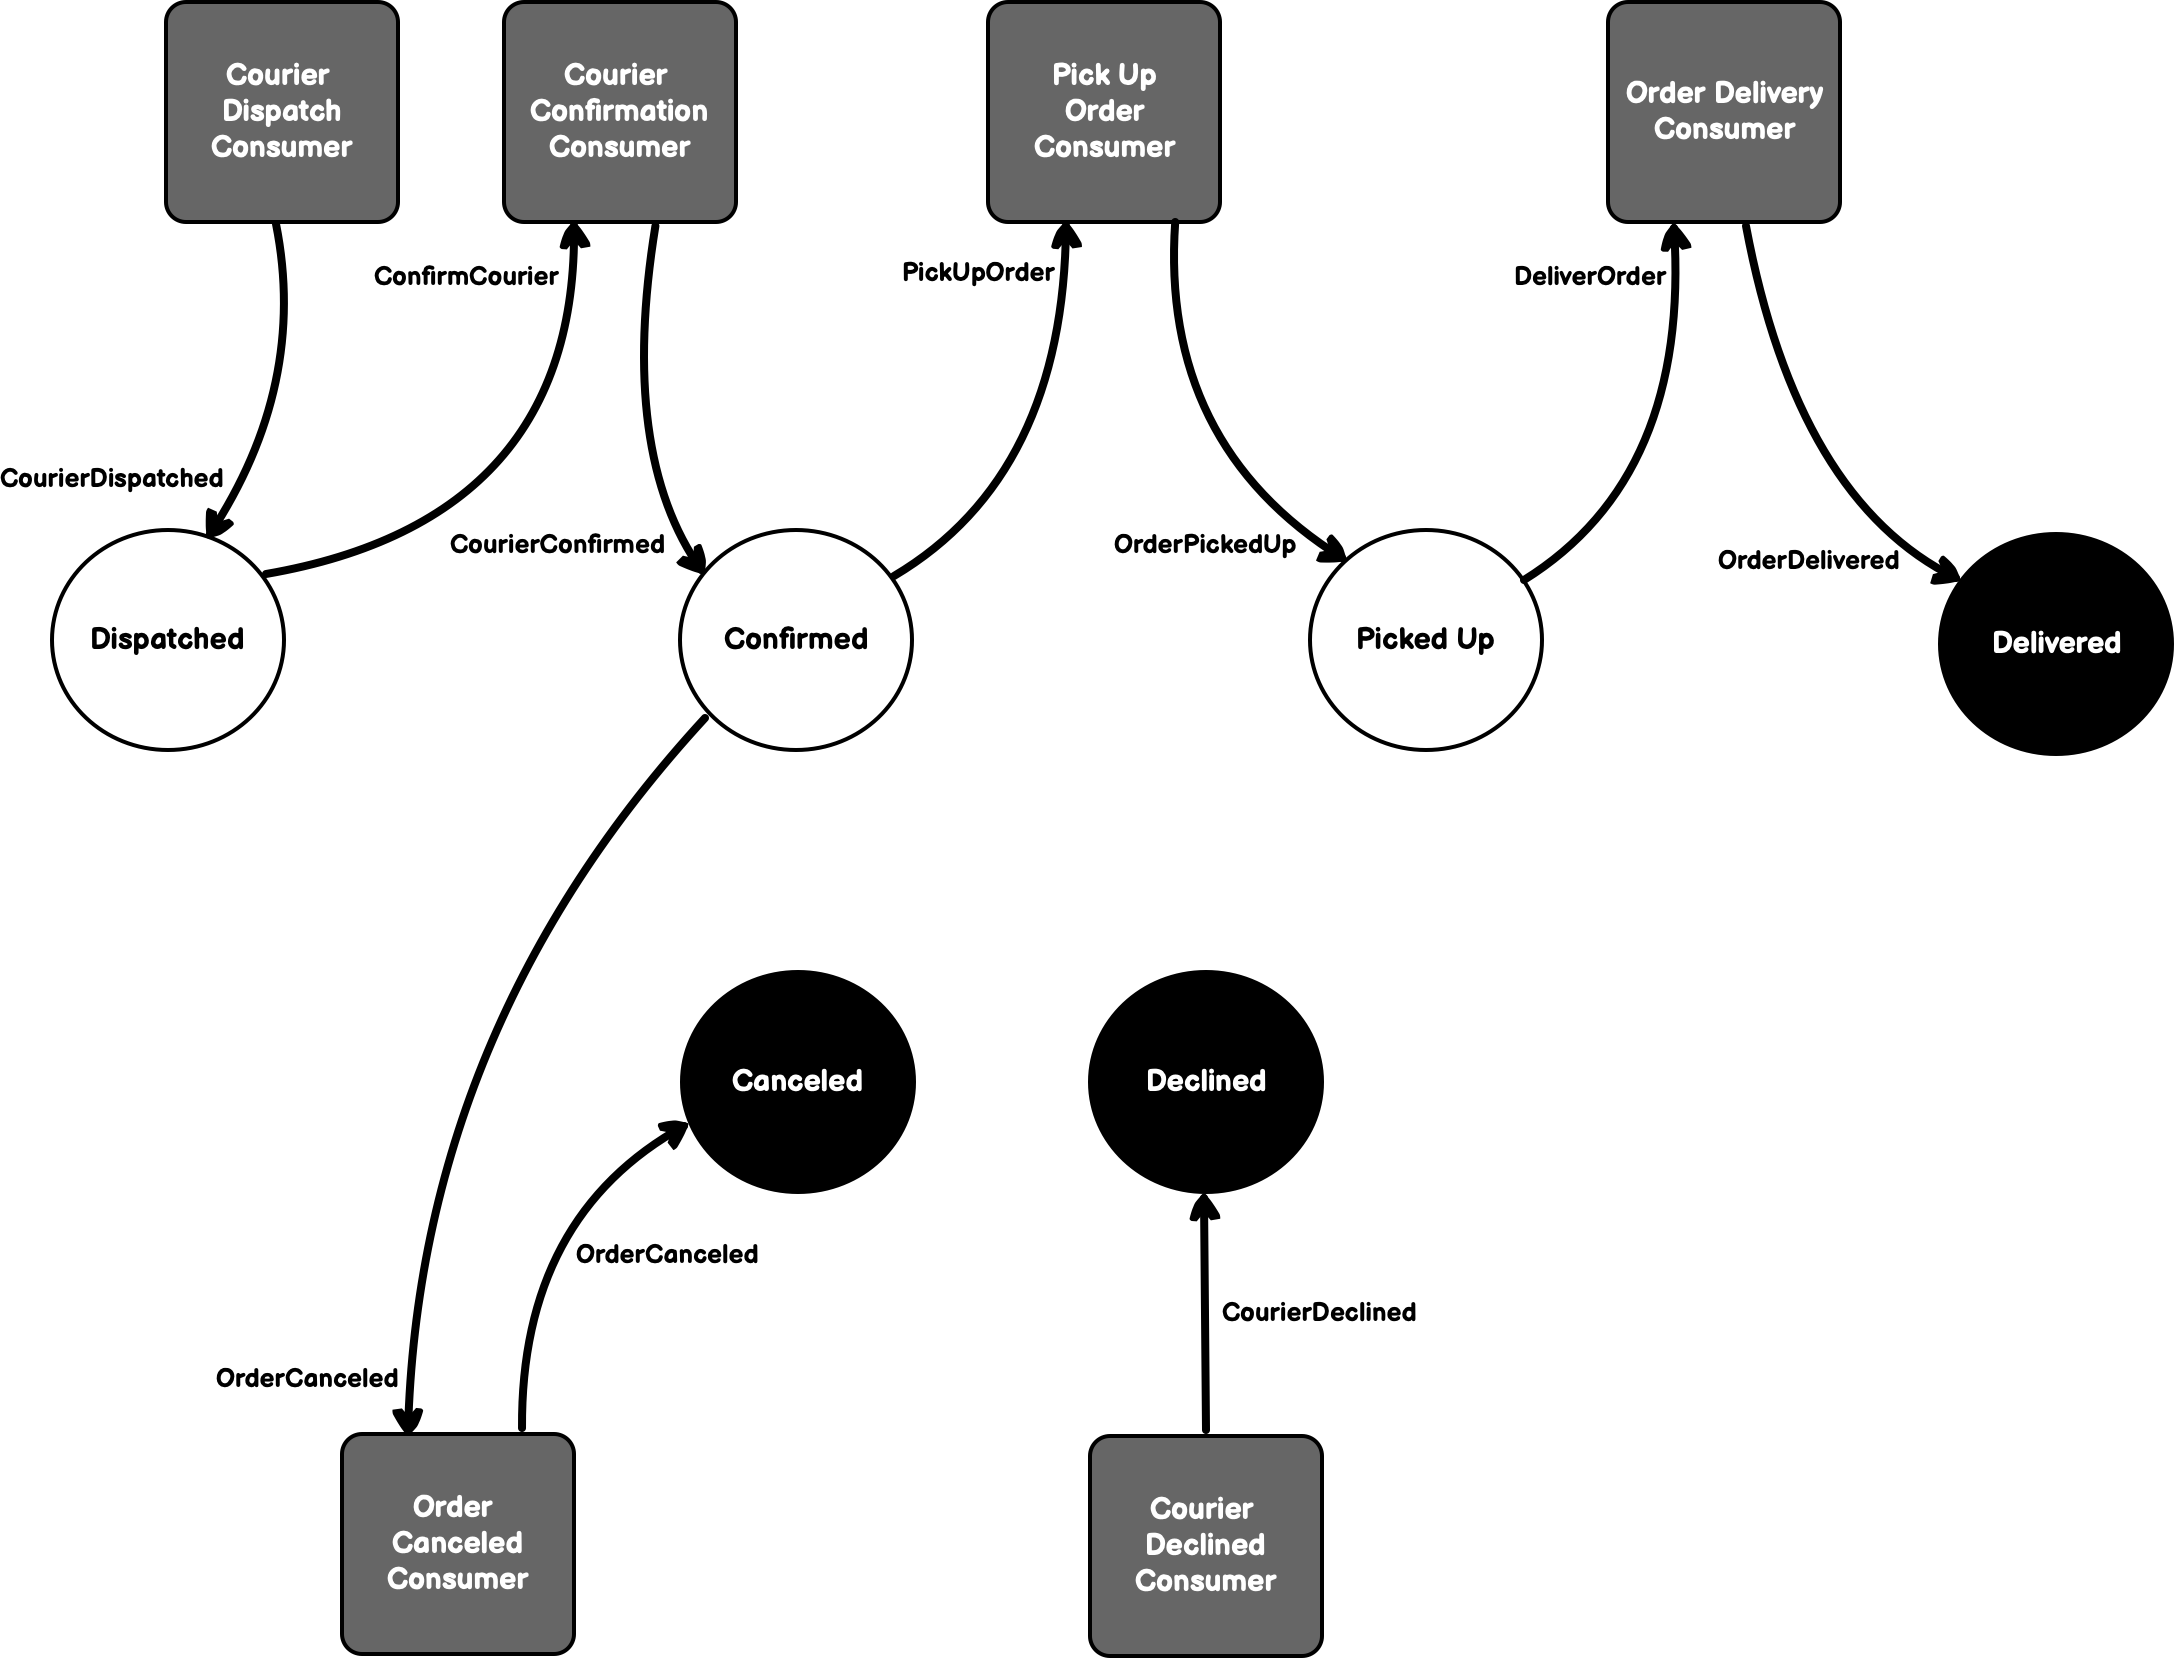
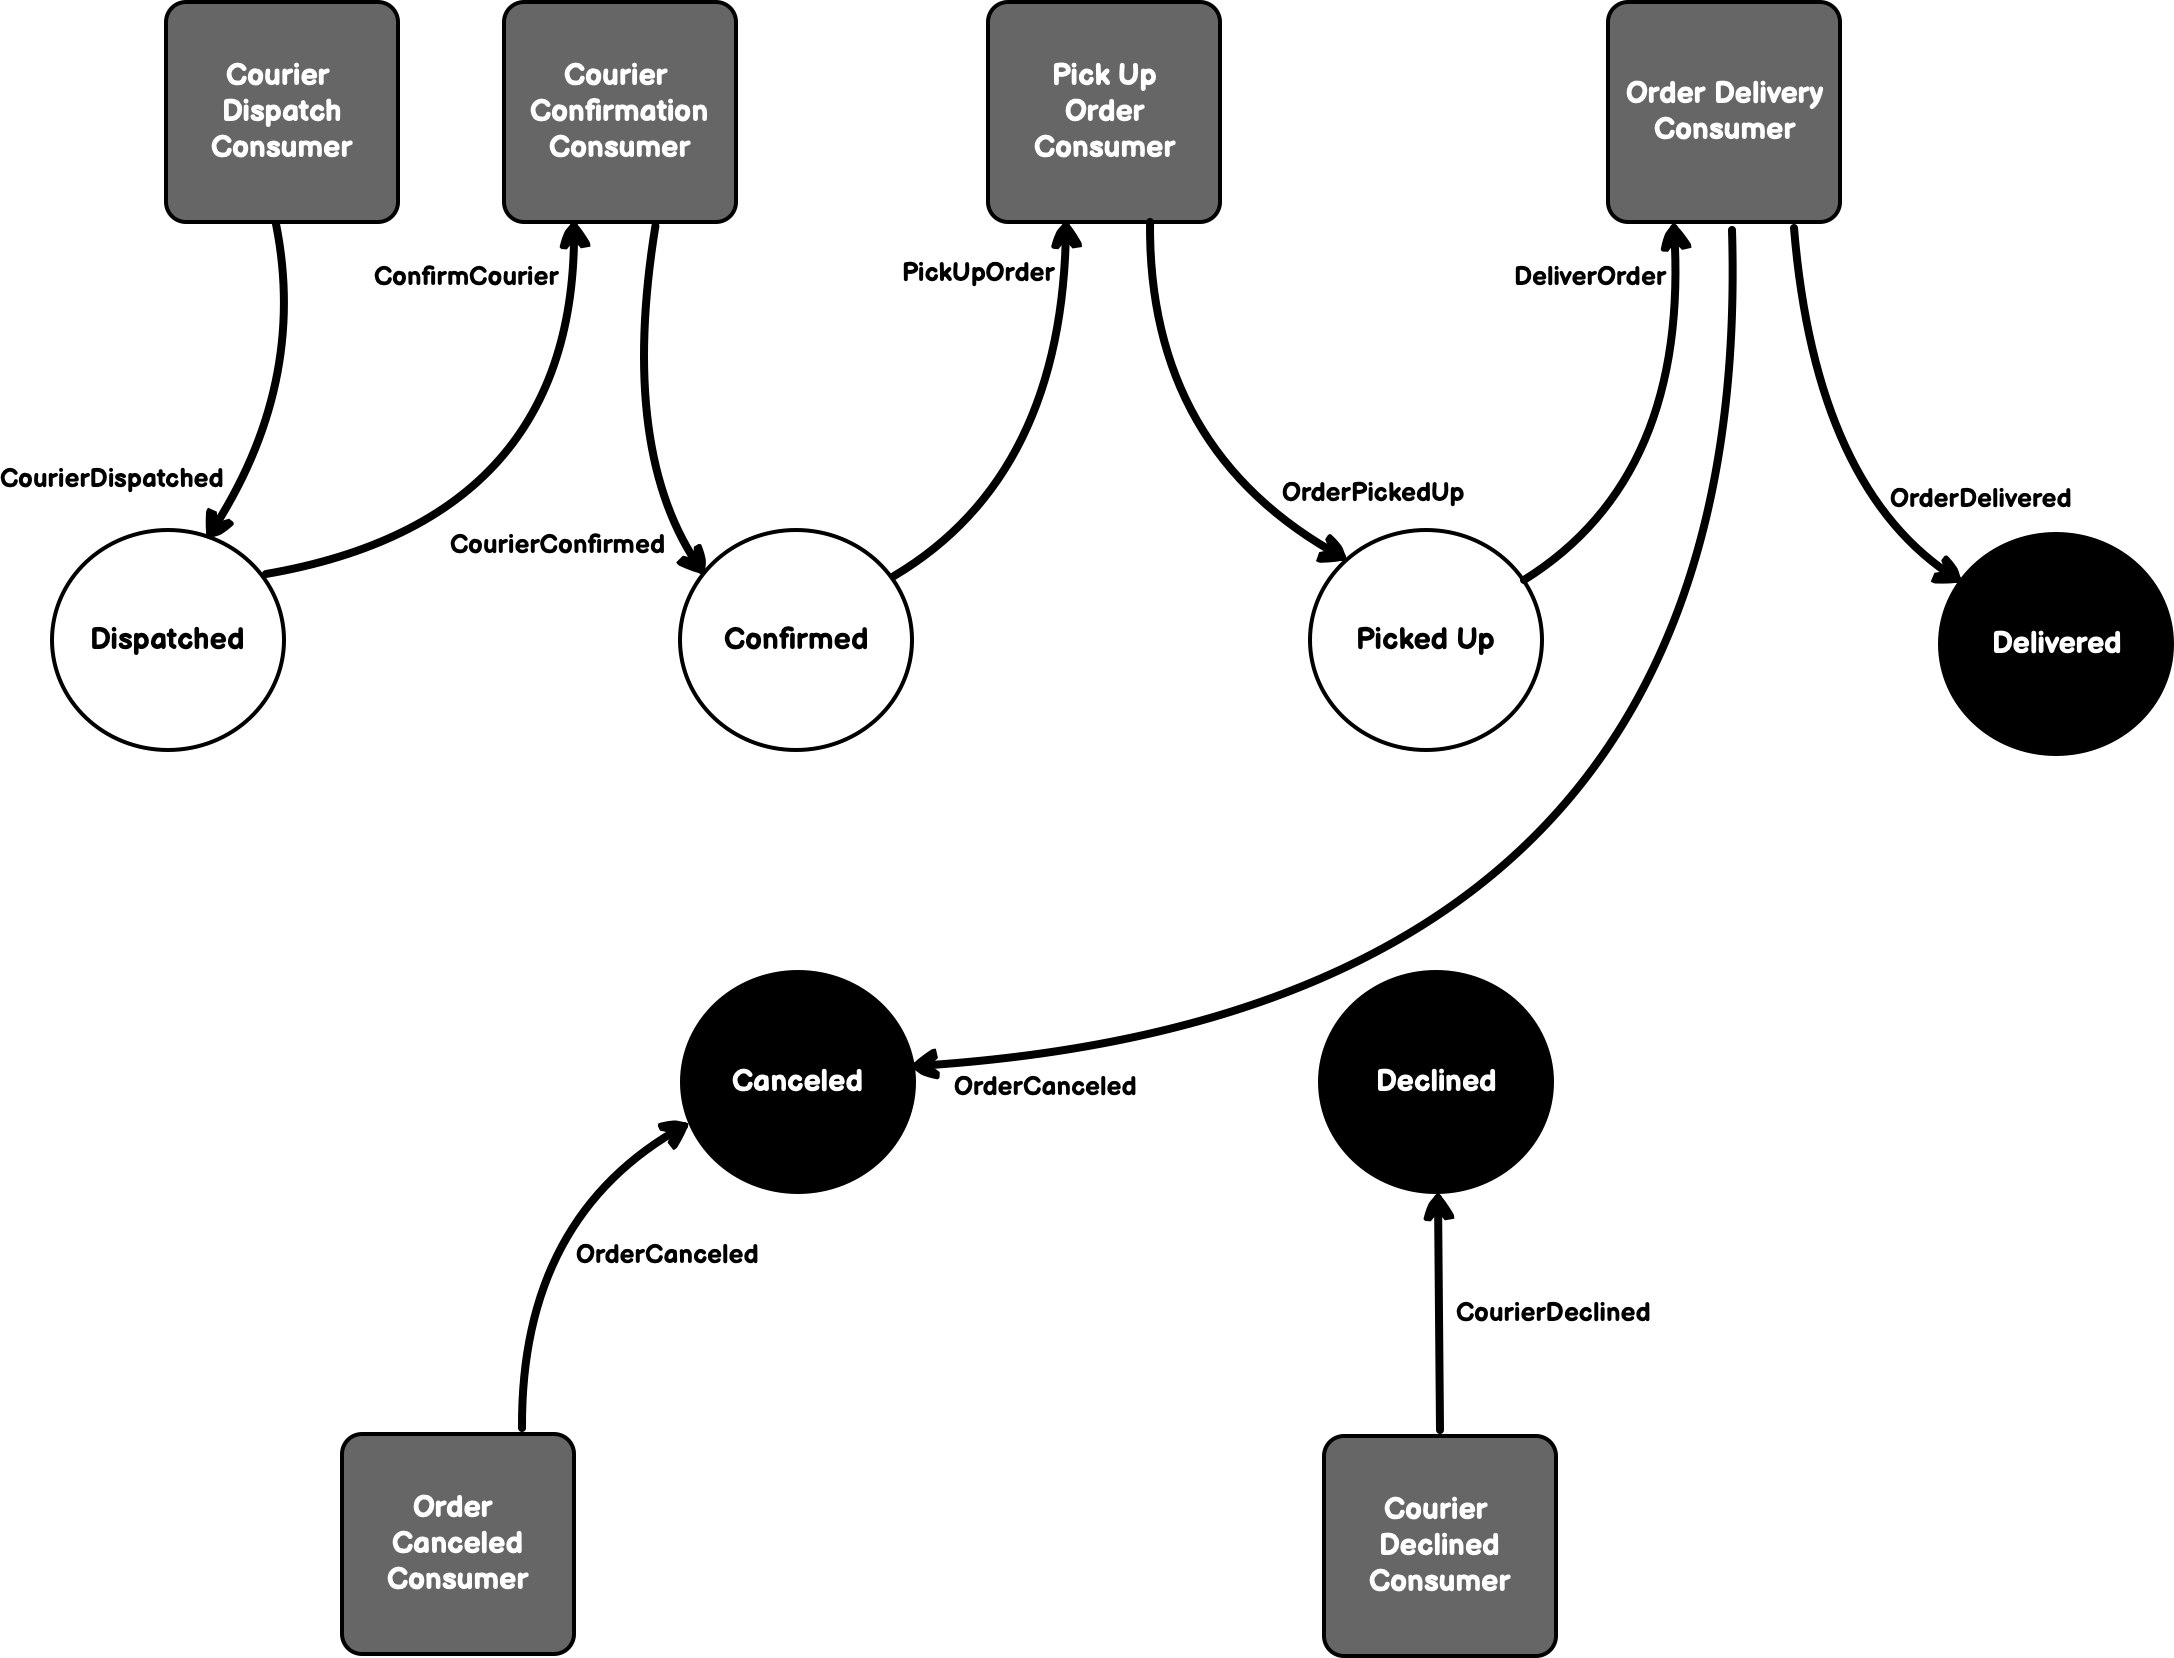
worked on readme

diff --git a/README.md b/README.md
@@ -42,13 +42,23 @@ Cooks are dispatched when the order has been confirmed by the restaurant to have
 
 Couriers are dispatched when the order has been confirmed by the restaurant to have been valid.
 
+##### When a courier is dispatched...
+
+When a courier is dispatched he/she can either confirm or decline the restaurant's request. A courier is dispatched by the restaurant by finding a courier
+that meets certain criteria based on locale and whether or not the courier is active. Once an appropriate courier is chosen, a request is sent to the chosen
+courier so that can confirm or decline delivery of the order. status is updated. If the courier confirms the request for delivery, they will subsequently
+head to the restaurant location to pick up the order. If the courier declines the request, the restaurant must dispatch a new courier or cancel the order.
+An order can be canceled by either the customer, restaurant, or courier at different points in the workflow. A customer or restaurant can cancel an order up
+to the point when the order is picked up by the courier. A courier can only cancel an order after it has picked up the order in route to delivery. The state
+machine diagram in figure 3 represents the aforementioned states and transitions. The black colored states are considered final states.
+
 ![Courier State Machine Diagram](CourierStateMachine.png)
 
 **Figure 3**
 
 ####  Courier Sate Machine Orchestration
-The state machine diagram in Figure 3 represents a rendering of how states are transitioned by certain events. Figure 4 represents how the tasks are  
-orchestrated so that the various state transitions can take place.
+The state machine diagram in Figure 3 represents a rendering of how states are transitioned by certain events. Figure 4 represents how the various tasks are
+orchestrated so that state transitions can take place.
 
 ![Courier State Machine with Consumers Diagram](CourierStateMachineWithConsumers.png)
 
